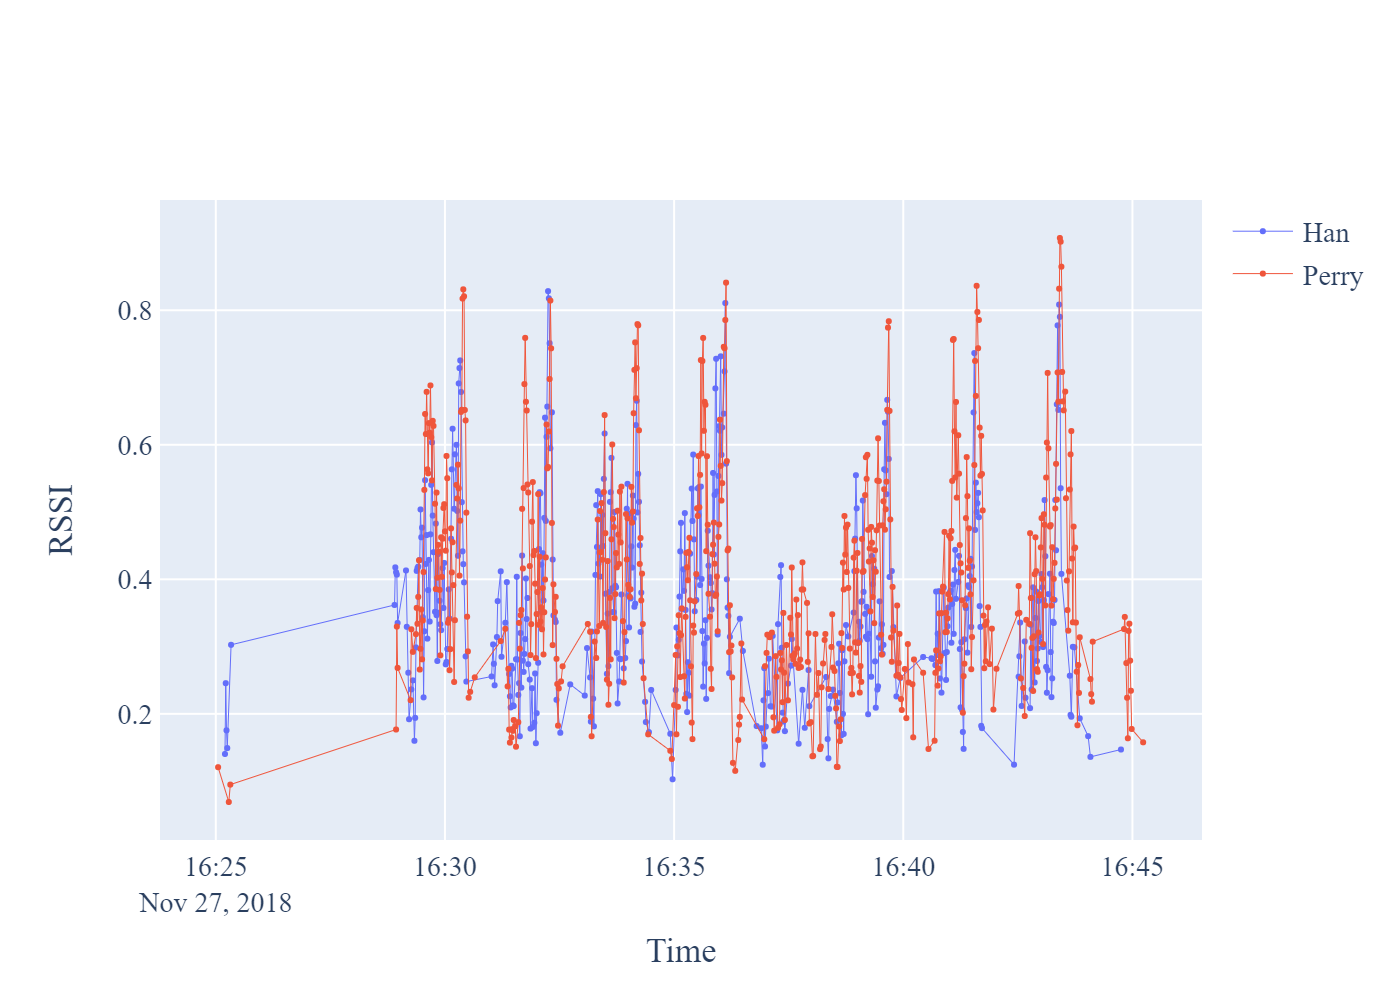
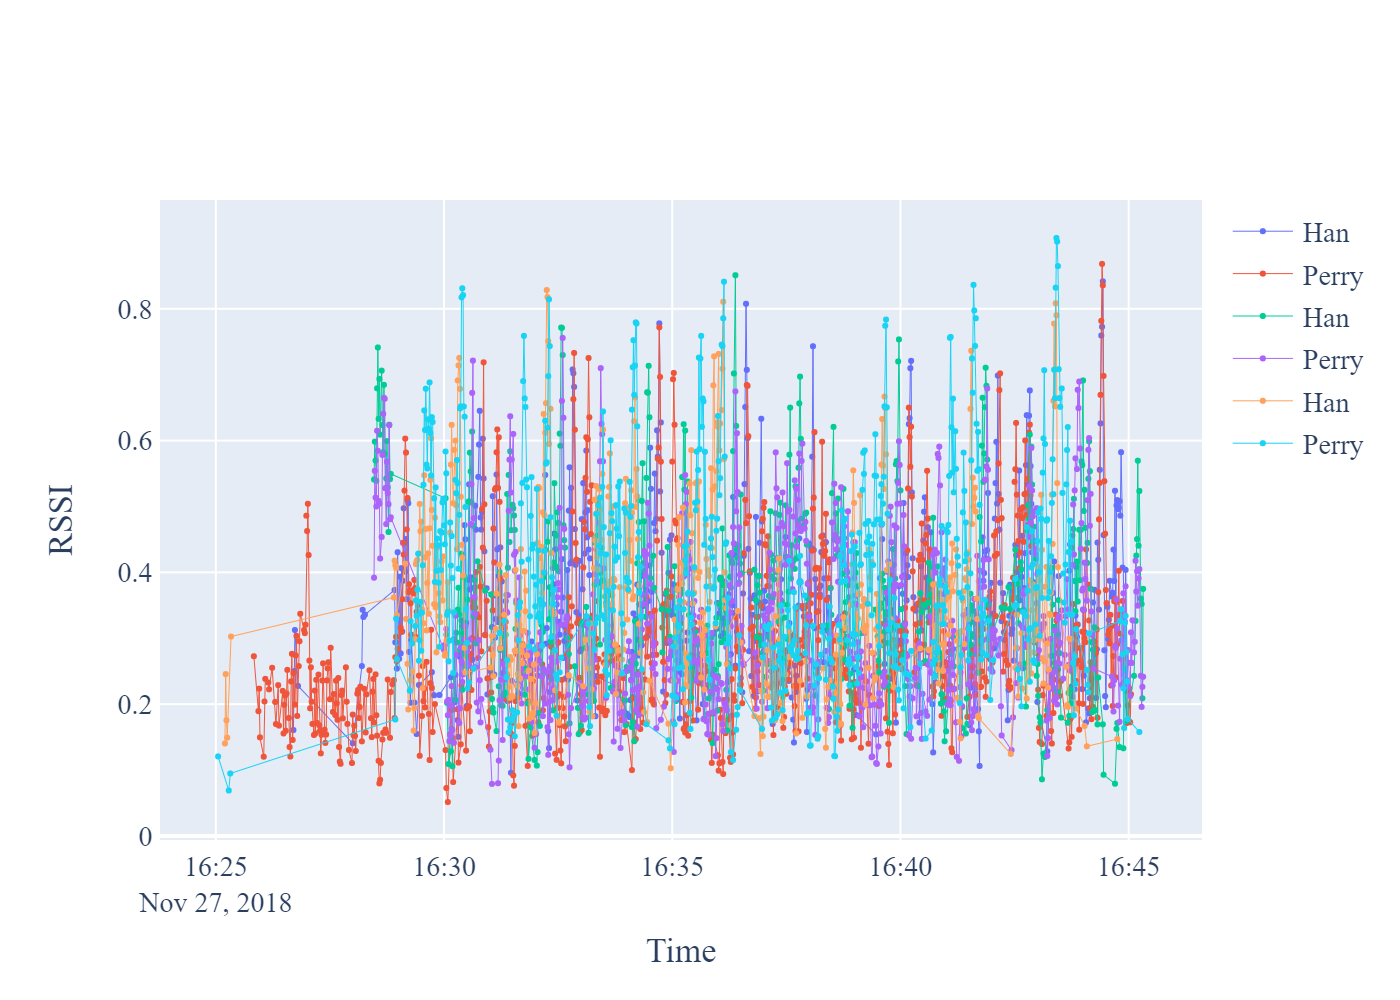
week3

diff --git a/playground2.py b/playground2.py
@@ -78,6 +78,7 @@ alpha = 0.5
 def getRSSI(filename, ble=False):
     # 整理 log 並上標籤
     df = pd.read_csv(filename, sep='\t', parse_dates=[0], error_bad_lines=False)
+    print(df)
     if 'ble' in filename:
         df.columns = ['time','mac','type','RSSI','uuid']
         rate='1'
@@ -95,18 +96,7 @@ def getRSSI(filename, ble=False):
         probe1 = df[df.mac == device_1_mac].resample(rate+'S').agg(dict(RSSI='max')).dropna()
         probe2 = df[df.mac == device_2_mac].resample(rate+'S').agg(dict(RSSI='max')).dropna()
     
-    Orig_P1=probe1.copy()
-    Orig_P2=probe2.copy()
-
-    probe1.RSSI = getNormalize(probe1.RSSI)
-    probe2.RSSI = getNormalize(probe2.RSSI)
-    Nor_P1=probe1
-    Nor_P2=probe2
-
-    SES_P1 = getSES(probe1, alpha, False)
-    SES_P2 = getSES(probe2, alpha, False)
-
-    return Orig_P1, Orig_P2, Nor_P1, Nor_P2, SES_P1, SES_P2
+    return probe1, probe2
 
 # RSSI 正規化
 def getNormalize(column):
@@ -140,67 +130,10 @@ def getShiftScatter(df, name, color):
 
 # 主程式
 if __name__ == '__main__':
+    df = pd.read_csv(file4, sep='\t', parse_dates=[0], error_bad_lines=False)
+    df.columns = ['time','mac','chip','ap','RSSI']
+    print(df)
 
-    Orig_P1, Orig_P2, Nor_P1, Nor_P2, SES_P1, SES_P2 = getRSSI(file2)  
-
-    data = [
-    # getShiftScatter(df1, 'UE1 - UE5', 'rgb(112,193,71)'),
-    # getShiftScatter(df2, 'UE1 - UE6', 'rgb(110,95,169)'),
-    # getShiftScatter(df3, 'UE3 - UE6', 'rgb(75,172,198)'),
-    getShiftScatter(Orig_P1, 'Han', 'rgb(110,95,169)'),
-    getShiftScatter(Orig_P2, 'Perry', 'rgb(75,172,198)'),
-    # getShiftScatter(df4, 'UE4 - UE5'),
-    # getShiftScatter(df5, 'UE3 - UE5'),
-    # getShiftScatter(df6, 'UE4 - UE6', 'rgb(75,172,198)'),
-    ]
-
-    data2 = [
-    getShiftScatter(Nor_P1, 'Han', 'rgb(110,95,169)'),
-    getShiftScatter(Nor_P2, 'Perry', 'rgb(75,172,198)'),
-    ]
-
-    data3 = [
-    getShiftScatter(SES_P1, 'Han', 'rgb(110,95,169)'),
-    getShiftScatter(SES_P2, 'Perry', 'rgb(75,172,198)'),
-    ]
-
-    layout = go.Layout(
-        xaxis = dict(
-            title='Time',
-            # range=[0, 5],
-            showline = True,
-            ),
-        yaxis = dict(
-            title='RSSI',
-            # range=[0.6, 0.8],
-            showline = True,
-            ),
-        font = dict(family='Montserrat SemiBold', size=14),
-        # legend=dict(orientation="h"),
-        # paper_bgcolor='rgba(0,0,0,0)',
-        # plot_bgcolor='rgba(0,0,0,0)',
-    )
-
-    ## 畫圖
-    # fig = go.Figure(data=data, layout=layout)
-    # pio.write_image(fig, 'test.png', scale=2)
-    # fig.show()
-    # fig2 = go.Figure(data=data2, layout=layout)
-    # pio.write_image(fig2, 'test2.png', scale=2)
-    # fig3 = go.Figure(data=data3, layout=layout)
-    # pio.write_image(fig3, 'test3.png', scale=2)
-
-    ## 子圖
-    # fig4 = make_subplots(rows=3, cols=1)
-    # fig4.append_trace(getShiftScatter(Orig_P1, 'Han', 'rgb(110,95,169)'), row=1, col=1)
-    # fig4.append_trace(getShiftScatter(Orig_P2, 'Perry', 'rgb(75,172,198)'), row=1, col=1)
-    # fig4.append_trace(getShiftScatter(Nor_P1, 'Han', 'rgb(110,95,169)'), row=2, col=1)
-    # fig4.append_trace(getShiftScatter(Nor_P2, 'Han', 'rgb(110,95,169)'), row=2, col=1)
-    # fig4.append_trace(getShiftScatter(SES_P1, 'Han', 'rgb(110,95,169)'), row=3, col=1)
-    # fig4.append_trace(getShiftScatter(SES_P2, 'Han', 'rgb(110,95,169)'), row=3, col=1)
-
-    # fig4.update_layout(height=600, width=600, title_text="Stacked subplots")
-    # fig4.show()
     
     
 

diff --git a/analysis.py b/analysis.py
@@ -179,6 +179,7 @@ def getRSSI(filename, ble=False):
     else:
         probe1 = df[df.mac == device_1_mac].resample(rate+'S').agg(dict(rssi='max')).dropna()
         probe2 = df[df.mac == device_2_mac].resample(rate+'S').agg(dict(rssi='max')).dropna()
+        
     probe1.rssi = getNormalize(probe1.rssi)
     probe2.rssi = getNormalize(probe2.rssi)
     probe1 = getSES(probe1, alpha, False)
